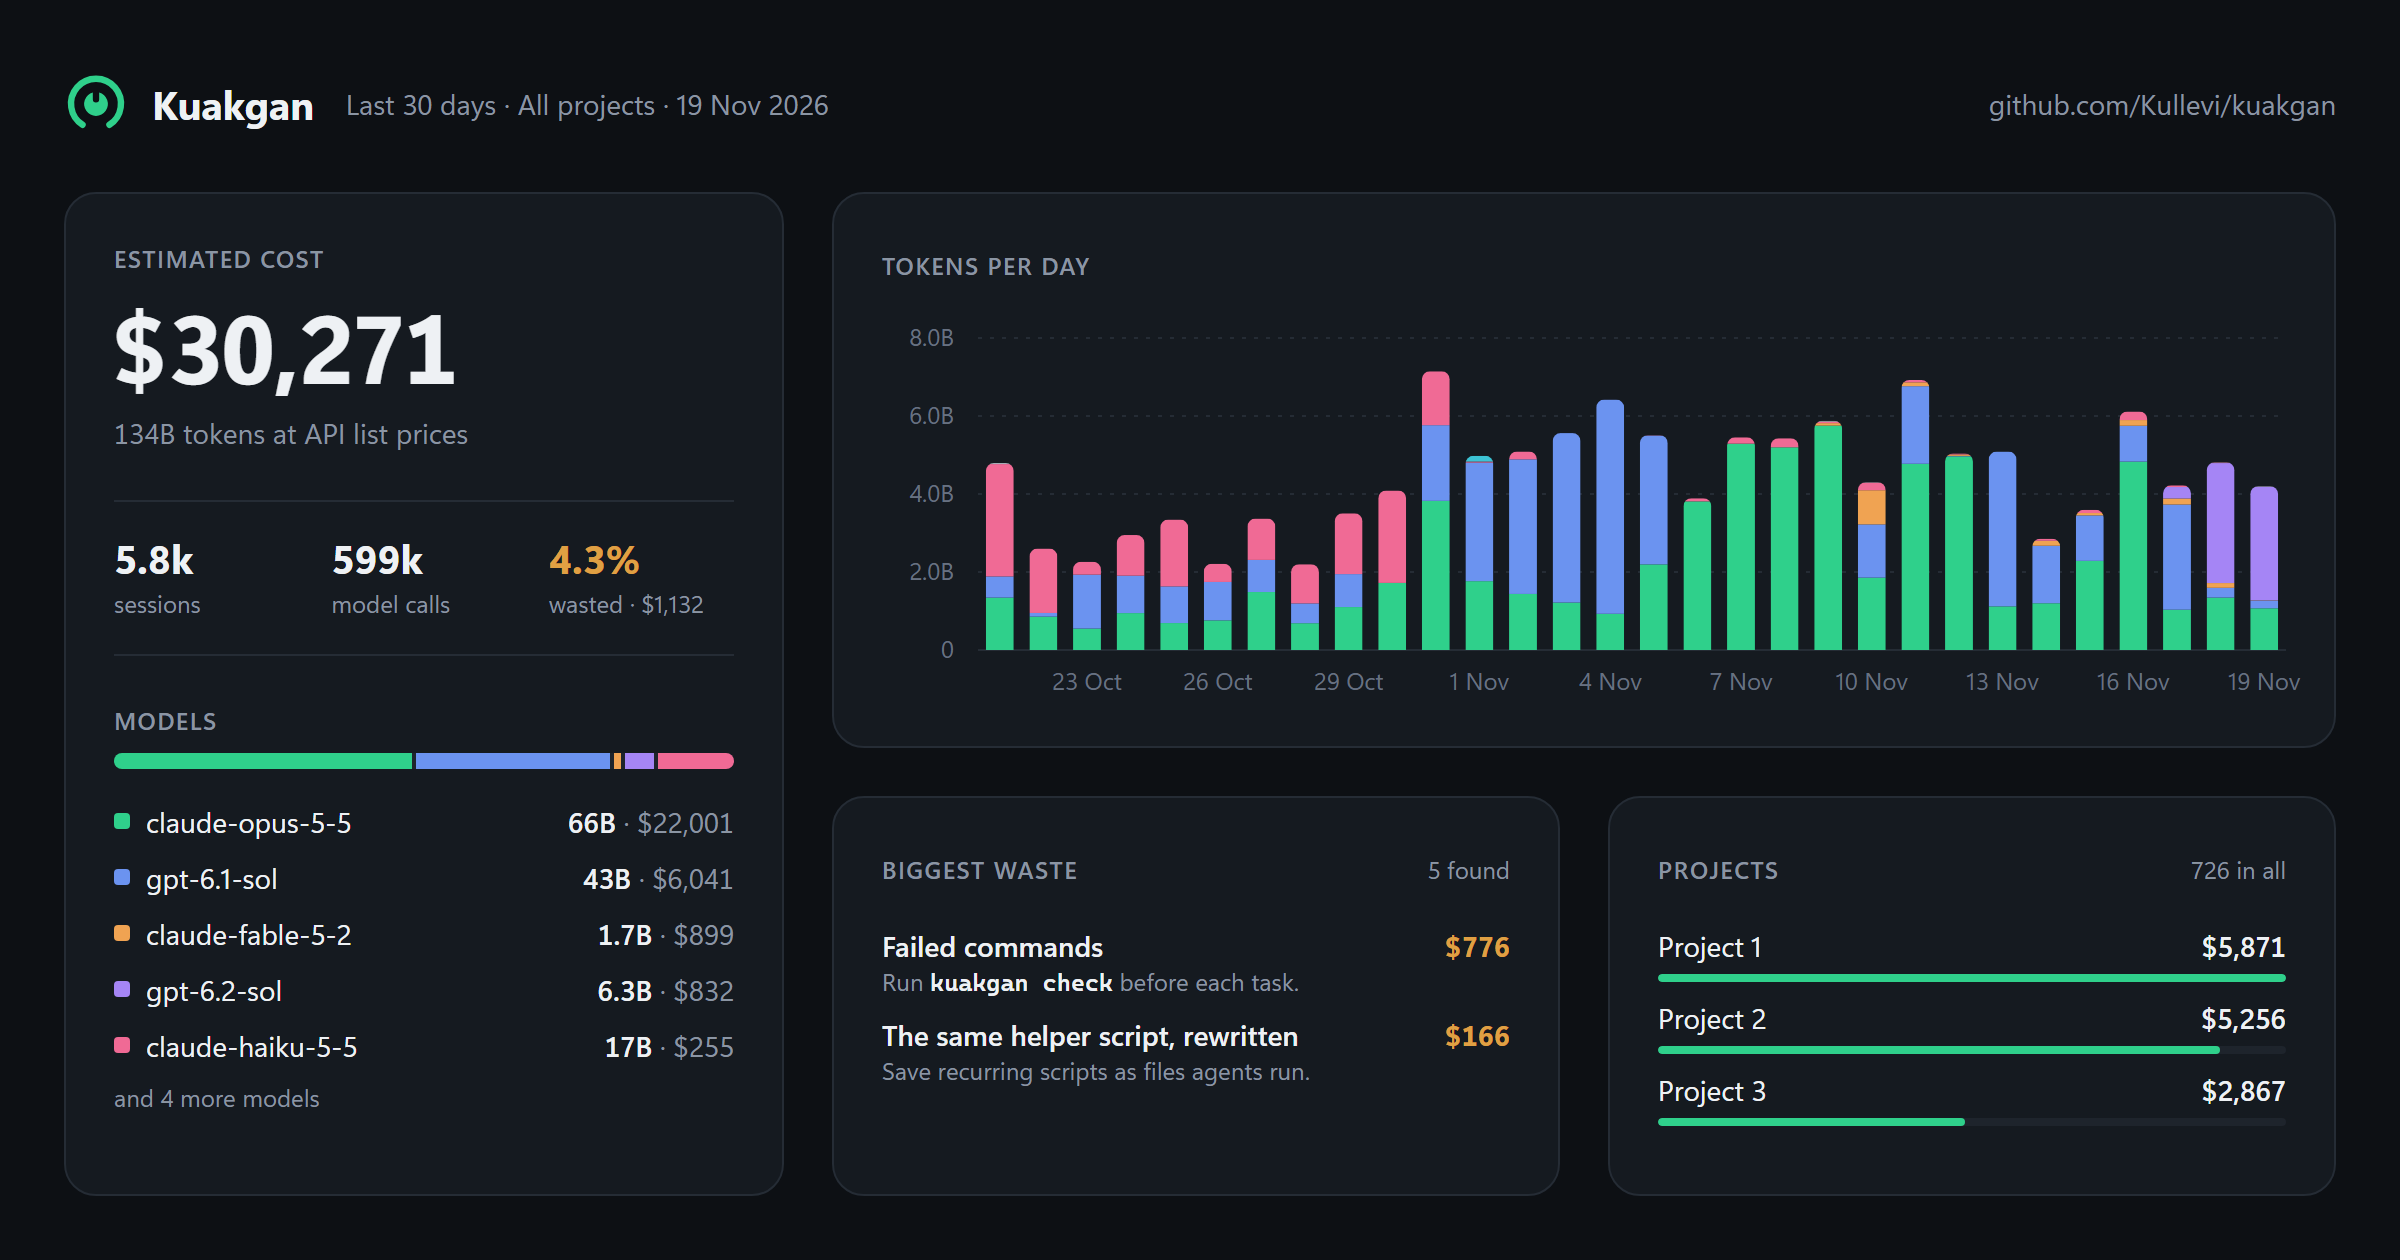
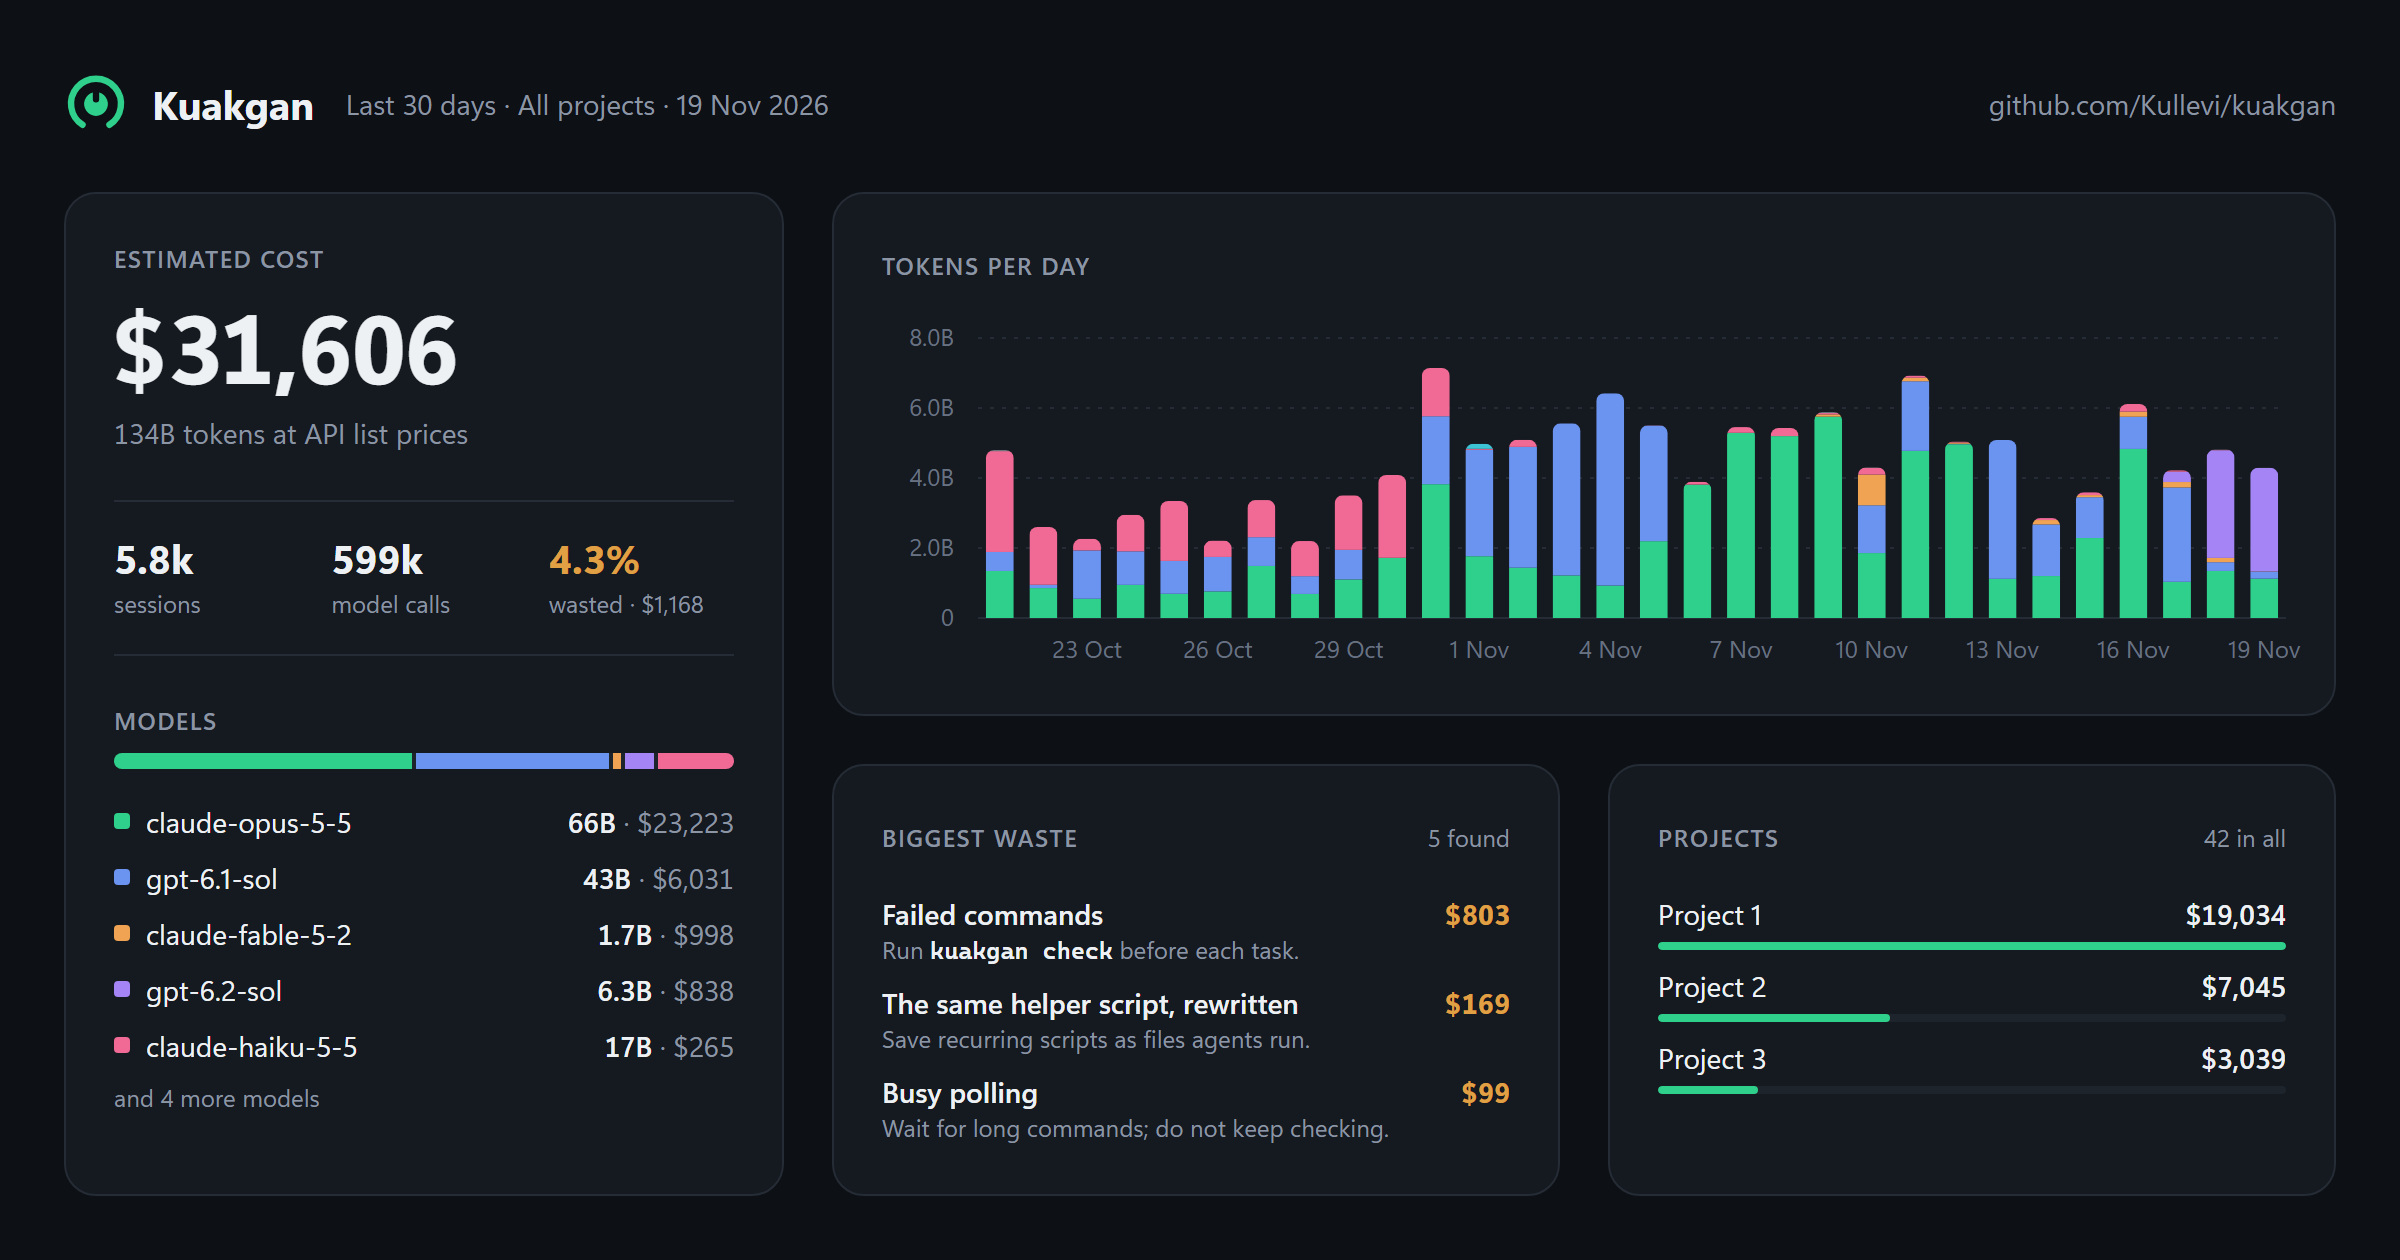
A project is a repository: worktrees and subfolders count as theirs
- Each session's working folder is resolved to its Git repository from the
  folder's .git, on the machine where the logs are, so worktrees no longer show
  as hundreds of projects.
- A worktree deleted before it was read joins the repository that four in five
  of the worktrees beside it belong to; otherwise it keeps its folder name.
- The dashboard's bottom cards fit a third waste row; the header date is the
  UTC day the chart ends on. Index version 10, so the index is rebuilt.
- Both GitHub images retaken.

diff --git a/dashboard.html b/dashboard.html
@@ -45,7 +45,7 @@ header { display: flex; align-items: center; gap: 16px; min-width: 0; }
 .spacer { flex: 1; }
 .site { color: var(--muted); font-size: 14px; display: none; }
 .body { display: grid; gap: 24px; min-height: 0; grid-template-columns: 360px minmax(0, 1fr); }
-.right { display: grid; gap: 24px; min-height: 0; grid-template-rows: minmax(0, 1fr) 200px; }
+.right { display: grid; gap: 24px; min-height: 0; grid-template-rows: minmax(0, 1fr) 216px; }
 .pair { display: grid; gap: 24px; grid-template-columns: 1fr 1fr; min-height: 0; }
 .card { background: var(--surface); border: 1px solid var(--border); border-radius: 16px; padding: 24px;
   min-width: 0; min-height: 0; display: flex; flex-direction: column; overflow: hidden; }
@@ -277,7 +277,7 @@ function render() {
   const d = state.data, t = d.totals, nm = names();
   const days = d.period_days;
   const when = days === 1 ? "Last 24 hours" : `Last ${days} days`;
-  const date = new Date().toLocaleDateString("en-GB", { day: "numeric", month: "short", year: "numeric" });
+  const date = new Date().toLocaleDateString("en-GB", { day: "numeric", month: "short", year: "numeric", timeZone: "UTC" });  // the chart's days are UTC days
   $("scope").textContent = [when, state.project ? nm.project(state.project) : "All projects", shotMode ? date : ""].filter(Boolean).join(" · ");
   $("headline").textContent = money(t.cost);
   $("subline").textContent = `${fmt(t.tokens)} tokens at API list prices` + (t.tokens_without_price ? `, plus ${fmt(t.tokens_without_price)} without a price` : "");

diff --git a/kuakgan.py b/kuakgan.py
@@ -15,6 +15,7 @@ import argparse
 import concurrent.futures
 import contextlib
 import difflib
+import functools
 import hashlib
 import json
 import multiprocessing
@@ -38,7 +39,7 @@ HERE = Path(__file__).resolve().parent if "__file__" in globals() else Path.cwd(
 DB_PATH = Path(os.environ.get("KUAKGAN_DB", HERE / ".kuakgan.db"))
 MACHINES_PATH = Path(os.environ.get("KUAKGAN_MACHINES", HERE / "kuakgan.json"))
 PULL_EVERY = 600  # seconds between fetching from other machines, except for `index`
-INDEX_VERSION = 9  # bump when parsing changes; the index is then rebuilt
+INDEX_VERSION = 10  # bump when parsing changes; the index is then rebuilt
 
 
 def claude_root() -> Path:
@@ -528,6 +529,7 @@ def parse_file(job: tuple[str, str, dict]) -> tuple[str, list[dict] | str]:
     try:
         sessions = (parse_claude if source == "claude" else parse_codex)(path, prices)
         for s in sessions:
+            s["repo"] = repo_of(s["cwd"])  # read here, on the machine whose folders these are
             s["findings"] = session_findings(s)
             s["usage"] = dict(s["usage"])
         return path, sessions
@@ -651,7 +653,7 @@ CREATE TABLE IF NOT EXISTS sessions (id TEXT PRIMARY KEY, file TEXT, source TEXT
   cwd TEXT, project TEXT, title TEXT, client TEXT, first_ts REAL, last_ts REAL, user_msgs INTEGER,
   compactions INTEGER, calls INTEGER, errors INTEGER, input INTEGER, cache_read INTEGER,
   cache_write INTEGER, output INTEGER, requests INTEGER, cost REAL, unpriced INTEGER,
-  last_context INTEGER, models TEXT, machine TEXT);
+  last_context INTEGER, models TEXT, machine TEXT, known INTEGER);
 CREATE TABLE IF NOT EXISTS usage (session TEXT, hour TEXT, model TEXT, input INTEGER,
   cache_read INTEGER, cache_write INTEGER, output INTEGER, requests INTEGER, cost REAL);
 CREATE TABLE IF NOT EXISTS calls (session TEXT, seq INTEGER, ts REAL, tool TEXT, kind TEXT,
@@ -747,9 +749,37 @@ def log_files() -> dict[str, tuple[str, int, float]]:
     return found
 
 
+@functools.lru_cache(maxsize=4096)
+def repo_of(cwd: str) -> str | None:
+    """The name of the Git repository a working directory belongs to, read from the
+    folder itself, so every worktree and subfolder counts as its repository. None
+    when the folder is gone or not in a repository."""
+    if not cwd or not os.path.isdir(cwd):
+        return None
+    path = os.path.abspath(cwd)
+    while True:
+        git = os.path.join(path, ".git")
+        if os.path.isdir(git):
+            return os.path.basename(path)
+        if os.path.isfile(git):  # a worktree: "gitdir: <repository>/.git/worktrees/<name>"
+            try:
+                line = Path(git).read_text(encoding="utf-8", errors="replace").strip()
+            except OSError:
+                return None
+            target = norm_path(os.path.join(path, line[7:].strip())) if line.startswith("gitdir:") else ""
+            m = re.match(r"(.*?)/(?:\.git/)?worktrees/[^/]+/?$", target)
+            if m:
+                return m.group(1).rstrip("/").rsplit("/", 1)[-1].removesuffix(".git") or None
+            return os.path.basename(path)
+        parent = os.path.dirname(path)
+        if parent == path:
+            return None
+        path = parent
+
+
 def project_of(cwd: str) -> str:
-    """A short project name from a working directory; worktrees under a
-    `.claude/worktrees` or `-lanes` folder count as their repository."""
+    """A short project name from a working directory when its repository is unknown;
+    worktrees under a `.claude/worktrees` folder count as their repository."""
     path = norm_path(cwd)
     m = re.search(r"/([^/]+)/\.(?:claude|codex)/worktrees/", path)
     if m:
@@ -779,12 +809,12 @@ def store(db: sqlite3.Connection, path: str, source: str, size: int, mtime: floa
         db.execute("DELETE FROM sessions WHERE id=?", (s["id"],))
         for table in ("usage", "calls", "findings"):
             db.execute(f"DELETE FROM {table} WHERE session=?", (s["id"],))
-        db.execute("INSERT INTO sessions VALUES (?,?,?,?,?,?,?,?,?,?,?,?,?,?,?,?,?,?,?,?,?,?,?,?)", (
-            s["id"], path, s["source"], s["parent"], s["cwd"], project_of(s["cwd"]),
+        db.execute("INSERT INTO sessions VALUES (?,?,?,?,?,?,?,?,?,?,?,?,?,?,?,?,?,?,?,?,?,?,?,?,?)", (
+            s["id"], path, s["source"], s["parent"], s["cwd"], s.get("repo") or project_of(s["cwd"]),
             s["title"] or s["first_prompt"], s["client"], s["first_ts"], s["last_ts"], s["user_msgs"],
             s["compactions"], len(s["calls"]), sum(c["err"] for c in s["calls"]), tot[0], tot[1],
             tot[2], tot[3], tot[4], tot[5], s["unpriced"], s["last_context"],
-            json.dumps(dict(models.most_common())), machine))
+            json.dumps(dict(models.most_common())), machine, 1 if s.get("repo") else 0))
         db.executemany("INSERT INTO usage VALUES (?,?,?,?,?,?,?,?,?)",
                        [(s["id"], h, m, *v) for (h, m), v in usage.items()])
         db.executemany("INSERT INTO calls VALUES (?,?,?,?,?,?,?,?,?,?,?,?,?,?,?)", [
@@ -851,8 +881,32 @@ def update_index(quiet: bool = False, only: list[str] | None = None, pull: bool 
             result = answer["machines"][m["name"]] = pull_machine(db, m, quiet)
             db.execute("INSERT OR REPLACE INTO meta VALUES (?, ?)", (f"error:{m['name']}", result.get("error", "")))
             db.commit()
+    infer_projects(db)
     db.close()
     return answer
+
+
+def infer_projects(db: sqlite3.Connection) -> None:
+    """A worktree that was deleted before Kuakgan read it has no repository on record.
+    When at least four in five of the worktrees beside it on the same machine belong
+    to one repository, it is taken to belong there too; otherwise it keeps its folder
+    name. Only folders whose name differs from their repository's count, so a
+    repository's own folder says nothing about its neighbours."""
+    parent = lambda cwd: norm_path(cwd).rsplit("/", 1)[0]
+    known = defaultdict(Counter)  # worktree folders per repository, per parent folder
+    for r in db.execute("SELECT DISTINCT machine, cwd, project FROM sessions WHERE known = 1"):
+        if norm_path(r["cwd"]).rsplit("/", 1)[-1] != r["project"]:
+            known[(r["machine"], parent(r["cwd"]))][r["project"]] += 1
+    changes = []
+    for r in db.execute("SELECT id, machine, cwd, project FROM sessions WHERE known = 0 AND cwd != ''"):
+        repos = known.get((r["machine"], parent(r["cwd"])))
+        if repos:
+            repo, n = repos.most_common(1)[0]
+            if n >= 0.8 * sum(repos.values()) and r["project"] != repo:
+                changes.append((repo, r["id"]))
+    if changes:
+        db.executemany("UPDATE sessions SET project = ? WHERE id = ?", changes)
+        db.commit()
 
 
 # ---------- other machines ----------
@@ -1328,7 +1382,7 @@ def find_project_sessions(db, directory: str) -> tuple[str, list]:
     if not exact:
         exact = [r for r in rows if cwd.lower().startswith(norm_path(r["cwd"]).lower() + "/")
                  or norm_path(r["cwd"]).lower().startswith(cwd.lower() + "/")]
-    project = exact[0]["project"] if exact else project_of(cwd)
+    project = exact[0]["project"] if exact else repo_of(cwd) or project_of(cwd)
     return project, [r["id"] for r in rows if r["project"] == project]
 
 

diff --git a/tests/test_kuakgan.py b/tests/test_kuakgan.py
@@ -321,3 +321,36 @@ class ClassifyTest(unittest.TestCase):
 
 if __name__ == "__main__":
     unittest.main()
+
+
+class ProjectTest(unittest.TestCase):
+    """Worktrees and subfolders count as their repository, also once deleted."""
+
+    def test_worktrees_and_subfolders_count_as_their_repository(self):
+        root = Path(tempfile.mkdtemp(prefix="kuakgan-repo-"))
+        (root / "shop" / ".git" / "worktrees" / "fix-cart").mkdir(parents=True)
+        (root / "shop" / "web").mkdir()
+        lane = root / "work" / "fix-cart"
+        lane.mkdir(parents=True)
+        (lane / ".git").write_text(f"gitdir: {root / 'shop' / '.git' / 'worktrees' / 'fix-cart'}\n")
+        self.assertEqual(kuakgan.repo_of(str(root / "shop" / "web")), "shop")
+        self.assertEqual(kuakgan.repo_of(str(lane)), "shop")
+        self.assertIsNone(kuakgan.repo_of(str(root / "work" / "deleted")))
+
+    def test_a_deleted_worktree_joins_the_repository_of_its_neighbours(self):
+        import sqlite3
+        db = sqlite3.connect(":memory:")
+        db.row_factory = sqlite3.Row
+        db.executescript(kuakgan.SCHEMA)
+        rows = [("a", "/w/fix-cart", "shop", 1), ("a2", "/w/fix-tax", "shop", 1), ("a3", "/w/fix-ui", "shop", 1),
+                ("a4", "/w/fix-api", "shop", 1), ("a5", "/w/tool-x", "tools", 1), ("b", "/w/old-lane", "old-lane", 0),
+                ("e", "/v/one", "shop", 1), ("e2", "/v/two", "tools", 1), ("f", "/v/gone", "gone", 0),
+                ("c", "/home/me/shop", "shop", 1), ("d", "/home/me/notes", "notes", 0)]
+        for sid, cwd, project, known in rows:
+            db.execute("INSERT INTO sessions (id, cwd, project, machine, known) VALUES (?, ?, ?, '', ?)",
+                       (sid, cwd, project, known))
+        kuakgan.infer_projects(db)
+        got = dict(db.execute("SELECT id, project FROM sessions").fetchall())
+        self.assertEqual(got["b"], "shop")    # four in five worktrees beside it are shop's
+        self.assertEqual(got["f"], "gone")    # its neighbours are split: no guess
+        self.assertEqual(got["d"], "notes")   # beside shop's own folder: says nothing

diff --git a/docs/DESIGN.md b/docs/DESIGN.md
@@ -43,13 +43,18 @@ The choices behind Kuakgan, and why. `GOALS.md` says what it must achieve.
    context, so it returns a handful of tips and lists, not raw data. Its
    "current session" is the session in that project that was written to most
    recently, within the last half hour.
-8. **Other machines are read where they are.** `machines add` remembers a
+8. **A project is a repository.** A session belongs to the Git repository of its
+   working folder, read from the folder's `.git` where the logs are, so worktrees
+   and subfolders count as their repository. A worktree deleted before Kuakgan
+   read it joins the repository that at least four in five of the worktrees beside
+   it belong to; otherwise it keeps its folder name.
+9. **Other machines are read where they are.** `machines add` remembers a
    computer reachable over SSH without a password. Kuakgan then sends its own
    source over SSH to that computer's Python, which lists its logs and reads only
    the new or changed ones; only the results come back. Nothing is installed
    there, and the logs never leave it. Other machines are fetched at most every
    ten minutes, except by `index`.
-9. **The dashboard is one page.** `kuakgan.py dashboard` serves
+10. **The dashboard is one page.** `kuakgan.py dashboard` serves
    `dashboard.html` and `/data.json` on 127.0.0.1, refusing requests for any
    other host name (DNS rebinding). It is designed as one 1200×630
    frame (a link preview's size) and scaled to the window; each list shows as
@@ -61,7 +66,7 @@ The choices behind Kuakgan, and why. `GOALS.md` says what it must achieve.
    no outside scripts or fonts, so it works offline. A background
    thread reads new logs every minute and prepares the usual periods, so that
    switching between them answers at once.
-10. **Installation is a clone.** One Python file using only the standard
+11. **Installation is a clone.** One Python file using only the standard
    library, plus the page and the logo. No packaging.
 
 ## Testing

diff --git a/README.md b/README.md
@@ -371,7 +371,8 @@ which version in the pull request.
 
 Kuakgan only reads files on your computer, and on the other computers you add
 over SSH, and writes its index (`.kuakgan.db`) next to `kuakgan.py`. The list
-of other computers is in `kuakgan.json` next to it. The dashboard listens on `127.0.0.1` only. The index
+of other computers is in `kuakgan.json` next to it. To tell which repository a session belongs to, it reads the `.git` entry of
+each working folder. The dashboard listens on `127.0.0.1` only. The index
 keeps the first 400 characters of each command and the line of an error, so
 that it can show you what failed; it keeps no file contents, and of the
 conversation only each session's title or the start of its first prompt. Delete `.kuakgan.db`
